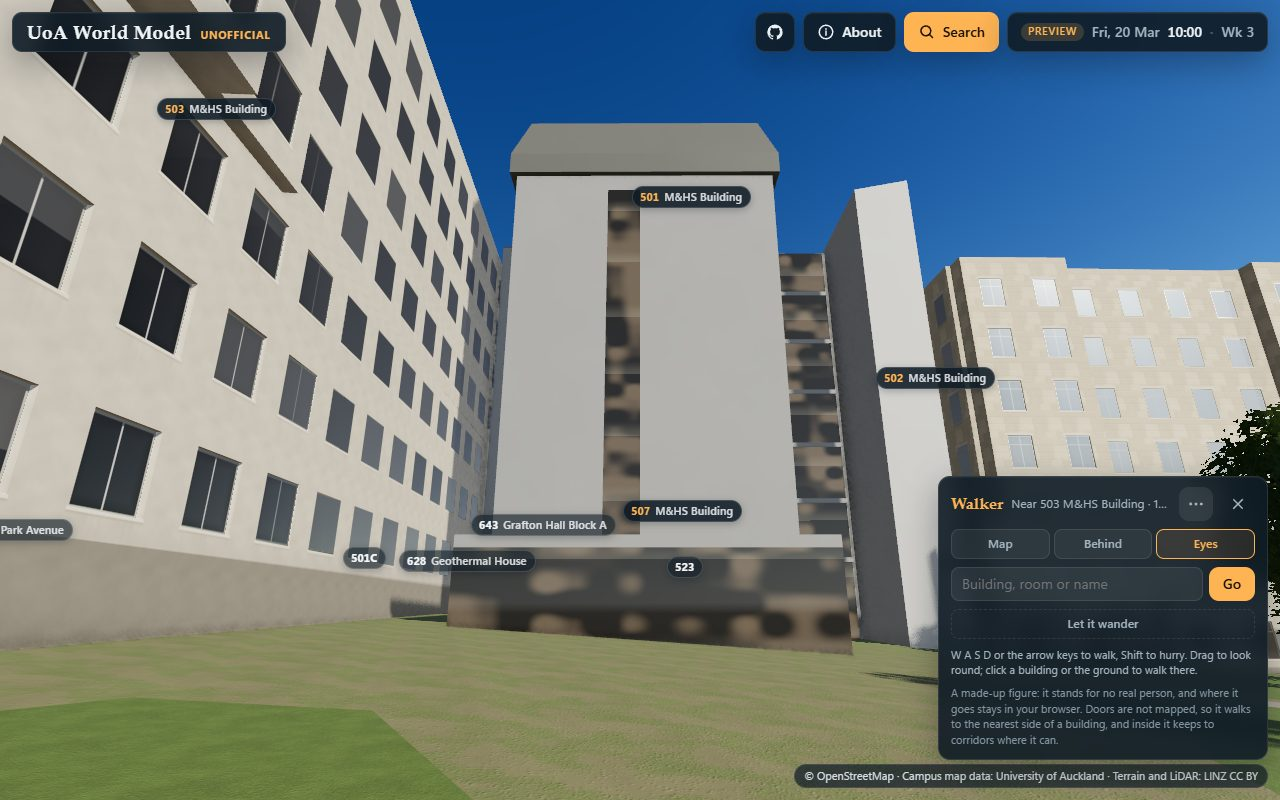
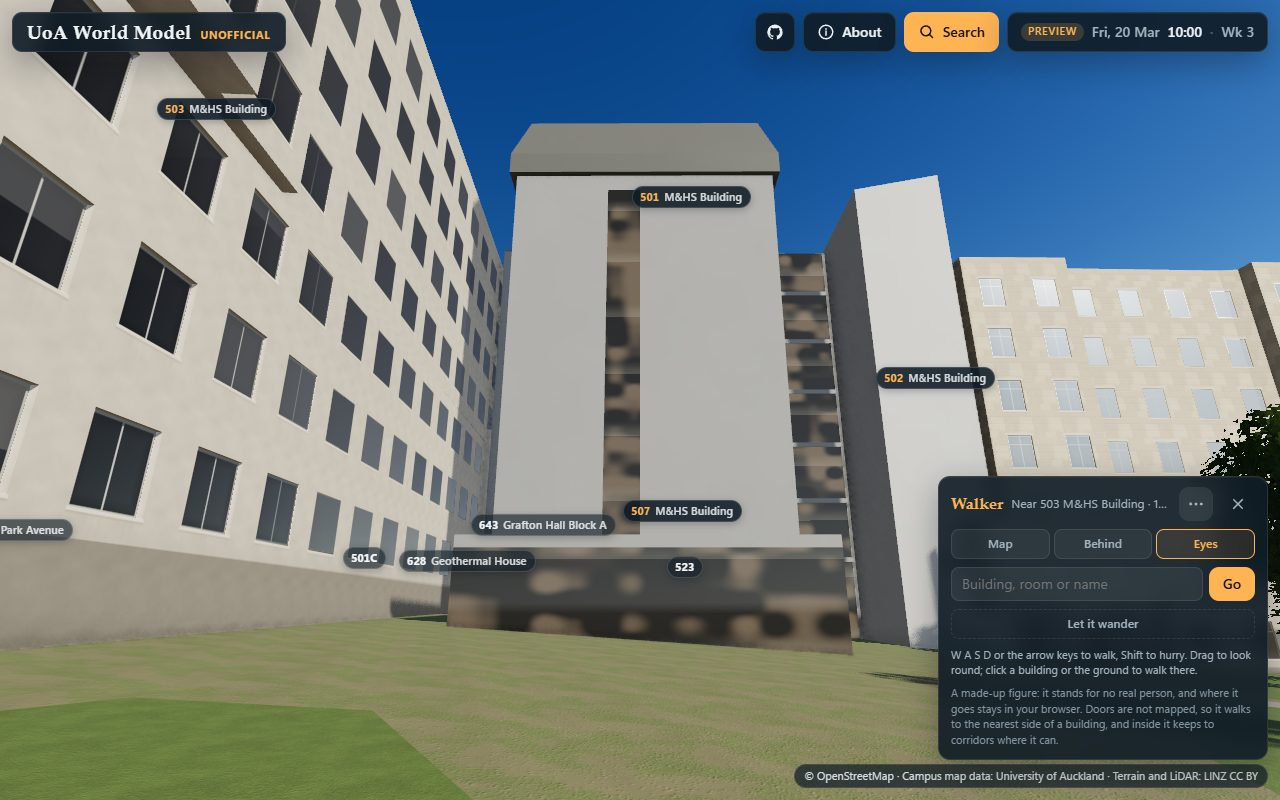
M&HS Building (501): the review's round 2, 502's edge to 501's ring and the block's lower east end
The second round found 502's edge stopping on a straight line from 502's ring's corner at u -23.2 to its east end,
short of 501's ring's north edge, which left a strip up to 1.9 m wide and about 28 m long undrawn where the LiDAR has
roof (29.0 to 29.4 m over the door): its north side now follows 502's ring's edge west of u -6.45 and 501's ring's
north edge east of it. And the long block's last 4 m to the tower, u -6 to -2, stand at 28.5 m (28.4 to 28.7, as
the concrete link and the part south of it), not 29.8: a part of its own, and the light well runs on to it (u -6).
The plant room ends at u -4.5 and the second part south of the block at -1.5, as the LiDAR's cells do. The words say
that the strip between 501's ring and 503's storeys is drawn by neither (as on main), that the glazed box's beam is
read from the photograph, and that 502's edge stands about 6 m over block 502 as the site draws it.

409 triangles, 5 draw calls. Silhouette IoU 0.909 in the model's screen box, luma 136 against 129; top view:
footprint IoU 0.830, 78% of 3,511 cells within 0.5 m; block 501 under the model 60.0%, the LiDAR's roof in its ring
96.8%; 502 0.1%, 503 0.3%, 501C 2.7%. Unit tests 445 passed; the four pictures taken again.

Claude-Session: https://claude.ai/code/session_01WyPcwFTXkmVC7XB6LWPSiH

Changed region(s): [[0.6875, 0.2188, 0.7812, 0.5938]]

diff --git a/landmarks/mhs-building-501/parts/common.js b/landmarks/mhs-building-501/parts/common.js
@@ -50,19 +50,22 @@ export const TOWER = {
 // lie in the shaft's face. The beam along its top is 0.5 m deep (estimated).
 export const BOX = { u: [8.1, 16.8], w: [-6.0, 9.5], top: H(4.5), beam: 0.5 };
 
-// The long block west of the tower: 29.8 m (29.5 to 29.8), its west end at u -26 (beyond it a part of 22 m, outside
-// the ring, and the ground), its sides at w -6 and 10.
-export const BLOCK = { u: [-26.0, -2.0], w: [-6.0, 10.0], top: H(29.8) };
-// A light well in its roof, u -21 to -7, w 4 to 8, its floor at 25.8 m (25.6 to 26.5).
-export const WELL = { u: [-21, -7], w: [4.0, 8.0], floor: H(25.8) };
-// The plant room on its south side, u -13 to -4, w -7 to -3, 34.6 m (34.3 to 34.9); its ends 0.1 m inside the part
-// south of the block, so that its walls do not lie in that part's ends.
-export const PLANT = { u: [-12.9, -4.1], w: [-7, -3], top: H(34.6) };
-// The part south of the block, to the ring's south edge at w -9.3 (the LiDAR has it on to w -11, inside block 503's
-// ring, which draws it): 30.5 m from u -13 to -4.5 (30.3 to 30.7), 28.6 m from -4.5 to -1 (28.5 to 28.6).
+// The long block west of the tower: 29.8 m (29.5 to 29.8) from its west end at u -26 (beyond it a part of 22 m,
+// outside the ring, and the ground) to u -6, its sides at w -6 and 10; its last 4 m to the tower, u -6 to -2, at
+// 28.5 m (28.4 to 28.7), the height of the concrete link and of the part south of it.
+export const BLOCK = { u: [-26.0, -6.0], w: [-6.0, 10.0], top: H(29.8) };
+export const BLOCK_EAST = { u: [-6.0, -2.0], w: [-6.0, 10.0], top: H(28.5) };
+// A light well in its roof, u -21 to -6 (to the lower east part), w 4 to 8, its floor at 25.8 m (25.6 to 26.5).
+export const WELL = { u: [-21, -6], w: [4.0, 8.0], floor: H(25.8) };
+// The plant room on its south side, u -13 to -4.5, w -7 to -3, 34.6 m (34.1 to 34.9); its ends 0.1 m inside the
+// part south of the block, so that its walls do not lie in that part's ends.
+export const PLANT = { u: [-12.9, -4.6], w: [-7, -3], top: H(34.6) };
+// The part south of the block, to the ring's south edge at w -9.3: 30.5 m from u -13 to -4.5 (30.3 to 30.7), 28.6 m
+// from -4.5 to -1.5 (28.5 to 28.6). The LiDAR has it on to w -11, inside block 503's ring; the site draws 503 from its
+// storeys' outlines, which start at about w -10.2, so a strip of about 1 m between is drawn by neither, as on main.
 export const SOUTH = [
   { u: [-13, -4.5], w: [-9.3, -6.0], top: H(30.5) },
-  { u: [-4.5, -1.0], w: [-9.3, -6.0], top: H(28.6) },
+  { u: [-4.5, -1.5], w: [-9.3, -6.0], top: H(28.6) },
 ];
 // The concrete link on its north side, u -5.5 to -2, from the block to 502 (w 10 to 16.5, 0.5 m into 502), 28.5 m.
 export const LINK = { u: [-5.5, -2.0], w: [10.0, 16.5], top: H(28.5) };
@@ -76,10 +79,12 @@ export const GLAZED = { u: [-2.5, 0.5], w: [9.3, 15.0], top: H(27.0) };
 export const GLAZED_FLOORS = [4.8, 8.6, 12.4, 16.2, 20.0, 23.8].map(H);
 
 // The building to the north (502), its south edge inside 501's ring: its south wall at w 16 (its first roof returns),
-// its east end at u 5.75, from the ring's west edge at u -30; drawn to 502's ring, whose south edge runs from w 20.3
-// at u -23.2 to 19.65 at u 5.75 (its block draws on from there). Its roof rises 0.2 m a metre to the north from 28.8 m
-// at that wall (29.2, 29.5, 29.9 and 30.2 m at w 17 to 23; the outermost cells, 27.0 to 27.3, are its edge's).
+// its east end at u 5.75, from the ring's west edge at u -30; drawn to the edge of 502's ring west of u -6.45 (w 20.3
+// to 21.4; its block draws on from there) and to 501's ring's north edge east of it (w 21.5 to 21.8, which 502's ring
+// meets or overlaps by up to 0.2 m), so that no part of 501's ring with the LiDAR's roof is left undrawn. Its roof
+// rises 0.2 m a metre to the north from 28.8 m at that wall (29.2, 29.5, 29.9 and 30.2 m at w 17 to 23; the outermost
+// cells, 27.0 to 27.3, are its edge's).
 export const NORTH = {
-  plan: [[-30, 16.0], [5.75, 16.0], [5.75, 19.65], [-23.17, 20.32], [-30, 20.29]],
+  plan: [[-30, 16.0], [5.75, 16.0], [5.75, 21.78], [-3.54, 21.49], [-6.45, 21.42], [-23.17, 20.32], [-30, 20.29]],
   eave: H(28.8), rise: 0.2, w0: 16.0,
 };

diff --git a/landmarks/mhs-building-501/parts/block.js b/landmarks/mhs-building-501/parts/block.js
@@ -1,19 +1,22 @@
 // The M&HS Building's long block west of the tower, with the plant room on it, the part south of it, the concrete
 // link north of it to 502 and the glazed link beside the tower; and the south edge of the building to its north
 // (502's), inside the campus map's ring of 501. Sizes from common.js.
-import { BLOCK, FOOT, GLAZED, GLAZED_FLOORS, LINK, NORTH, PLANT, SOUTH, WELL, at, plan, rect } from "./common.js";
+import {
+  BLOCK, BLOCK_EAST, FOOT, GLAZED, GLAZED_FLOORS, LINK, NORTH, PLANT, SOUTH, WELL, at, plan, rect,
+} from "./common.js";
 import { block, prism, tris } from "./shapes.js";
 
 const WALL = "renderGrey", ROOF = "roofGrey", GLASS = "glass", PALE = "claddingPale";
 
-/** The long block round its light well (the well's floor a block of its own), the plant room on its south side, the
- * part south of it, the concrete link north of it, and the glazed link: glass from just over FOOT to its roof, each
- * floor's slab standing out of the glass. */
+/** The long block round its light well (the well's floor a block of its own) and its lower east end, the plant room
+ * on its south side, the part south of it, the concrete link north of it, and the glazed link: glass from just over
+ * FOOT to its roof, each floor's slab standing out of the glass. */
 export function body(b) {
   const [u0, u1] = BLOCK.u, [w0, w1] = BLOCK.w, [a0, a1] = WELL.u, [c0, c1] = WELL.w;
   for (const [u, w] of [[[u0, u1], [w0, c0]], [[u0, u1], [c1, w1]], [[u0, a0], [c0, c1]], [[a1, u1], [c0, c1]]])
-    block(b, rect(u, w), FOOT, BLOCK.top, WALL, ROOF);
+    if (u[1] > u[0] && w[1] > w[0]) block(b, rect(u, w), FOOT, BLOCK.top, WALL, ROOF);
   block(b, rect(WELL.u, WELL.w), FOOT, WELL.floor, WALL, ROOF);
+  block(b, rect(BLOCK_EAST.u, BLOCK_EAST.w), FOOT, BLOCK_EAST.top, WALL, ROOF);
   block(b, rect(PLANT.u, PLANT.w), BLOCK.top - 2, PLANT.top, WALL, ROOF);
   for (const s of SOUTH) block(b, rect(s.u, s.w), FOOT, s.top, WALL, ROOF);
   block(b, rect(LINK.u, LINK.w), FOOT, LINK.top, WALL, ROOF);

diff --git a/landmarks/mhs-building-501/README.md b/landmarks/mhs-building-501/README.md
@@ -38,12 +38,14 @@ as it does for every landmark.
 - No other landmark's outline comes within 2 m of its (502 and 503 are blocks), so it stands alone on the map's ground
   at its door (`../README.md`, "Placement").
 - The model draws what the LiDAR has inside block 501's ring, so that it stands over no part of the blocks of 502 and
-  503 beside it (0.0% and 0.4% of them under it). The ring takes in, besides the building, the plaza east of the tower,
-  over the floors the campus map has below its ground, and the south edge of building 502's roof: the model draws that
-  edge (plainly, in pale cladding, its roof rising as the LiDAR has it) up to 502's own ring, so that the map keeps the
-  roof the block drew there. The long block's south-west corner stands over the ring of 501C, which the campus map has
-  as a basement (2.7% of that block under the model); the LiDAR has the block there.
-- 57.8% of block 501 is under the model above 2.5 m; of the LiDAR's roof inside its ring (899 m²), 92.9%. No other
+  503 beside it (0.1% and 0.3% of them under it). The ring takes in, besides the building, the plaza east of the
+  tower, over the floors the campus map has below its ground, and the south edge of building 502's roof: the model
+  draws that edge (plainly, in pale cladding, its roof rising as the LiDAR has it) to the edge of 502's ring and, east
+  of it, of 501's, so that the map keeps the roof the block drew there. Block 502, as the site draws it, stands about
+  6 m lower than the LiDAR has its roof, so the edge shows as a step over it, as block 501 did. The long block's
+  south-west corner stands over the ring of 501C, which the campus map has as a basement (2.7% of that block under the
+  model); the LiDAR has the block there.
+- 60.0% of block 501 is under the model above 2.5 m; of the LiDAR's roof inside its ring (899 m²), 96.8%. No other
   block is under it by half, so `building.also` is empty.
 
 ## The reference
@@ -63,7 +65,8 @@ camera held 1.6 m over the LiDAR's ground. It stands about 67 m before the face,
 degrees across: an rms of 2.78 px. The crown's eave is at 27.8 m: the LiDAR's edge cells there mix the crown and the
 wall (28 to 30 m), and the fit's residual on the eave was 22 px at the outermost cell's 29.2 m and 1 px at 27.8. No
 size is measured from the photograph but that eave, the crown's band, the shaft's set-back under the crown, the glazed
-link's top and floors and the strip of windows (below); it is a reference for the look and the comparison.
+link's top and floors, the strip of windows and the glazed box's beam (below); it is a reference for the look and the
+comparison.
 
 ## The model (`parts/common.js`)
 
@@ -75,23 +78,25 @@ link's top and floors and the strip of windows (below); it is a reference for th
   estimated).
 - **The glazed box** before the east face, its roof at 4.5 m (its beams 5.4 to 7.0 above it), its face at u 16.8, a
   beam 0.5 m deep along its top (estimated).
-- **The long block** west of it, 29.8 m (29.5 to 29.8), u -26 to -2 and w -6 to 10, a light well in its roof (u -21 to
-  -7, w 4 to 8, its floor at 25.8 m); **the plant room** on its south side, u -13 to -4 and w -7 to -3, 34.6 m;
-  **the part south of it**, 30.5 and 28.6 m, to the ring's edge at w -9.3 (the LiDAR has it on to w -11, inside block
-  503's ring, which draws it); **the concrete link** on its north side, u -5.5 to -2, from the block to 502, 28.5 m.
+- **The long block** west of it, 29.8 m (29.5 to 29.8), u -26 to -6 and w -6 to 10, a light well in its roof (u -21 to
+  -6, w 4 to 8, its floor at 25.8 m), and its last 4 m to the tower at 28.5 m; **the plant room** on its south side,
+  u -13 to -4.5 and w -7 to -3, 34.6 m; **the part south of it**, 30.5 and 28.6 m, to the ring's edge at w -9.3 (the
+  LiDAR has it on to w -11, inside block 503's ring; the site draws 503 from its storeys' outlines, which start at about
+  w -10.2, so a strip of about 1 m between is drawn by neither, as on main); **the concrete link** on its north side,
+  u -5.5 to -2, from the block to 502, 28.5 m.
 - **The glazed link** beside the tower's north side, u -2 to 0.5 and w 10 to 15, where the LiDAR returns nothing (a
   glass roof; the ground beyond it): glass to 27 m, each floor's slab every 3.8 m from 4.8 m standing 0.05 m out of
   it (the photograph's glazed link right of the tower, through its fitted camera: estimated). The link the photograph
   shows left of the tower stands south of 501's ring, in 503's, and is left to that block.
 - **502's south edge** inside the ring: its south wall at w 16 (its first roof returns), its east end at u 5.75, its
-  roof rising 0.2 m a metre from 28.8 m, to 502's ring.
+  roof rising 0.2 m a metre from 28.8 m, to the edge of 502's ring (and of 501's, east of u -6.45).
 - The light: the photograph has no date, and its east face stands in sun. The viewer's sun at 70 degrees round and 45
-  up lights that face; the building's luma median is 136 at an exposure of 0.4 against the photograph's 126 (counted
+  up lights that face; the building's luma median is 136 at an exposure of 0.4 against the photograph's 129 (counted
   in the model's screen box).
 
-Silhouette IoU 0.914 in the model's screen box. The top view: footprint IoU 0.797 (the LiDAR's 1,006 m² against the
-model's 916, both 852), 72% of the 3,374 cells both cover within 0.5 m (p10/p50/p90 -0.13/0.12/1.49), the highest
-point 34.3 m against the LiDAR's 34.4 (p99.9). 395 triangles, 5 draw calls.
+Silhouette IoU 0.909 in the model's screen box. The top view: footprint IoU 0.830 (the LiDAR's 1,006 m² against the
+model's 950, both 887), 78% of the 3,511 cells both cover within 0.5 m (p10/p50/p90 -0.13/0.10/1.27), the highest
+point 34.3 m against the LiDAR's 34.4 (p99.9). 409 triangles, 5 draw calls.
 
 ## On the map (step 7)
 
@@ -136,7 +141,10 @@ not 13.8 (the strip between is open ground); the long block's west end at u -26,
 atria drawn on the block's whole length where the LiDAR has, on the south-west, a planted surface at the plaza's level,
 and on the north-west nothing over a strip 6 m wide. The model now draws only what the LiDAR has inside 501's ring
 (and the block's corner over 501C's), at the cells' sizes; the glazed link only where the photograph shows it, beside
-the tower; and its card names every size estimated in the photograph. 640 triangles became 395.
+the tower; and its card names every size estimated in the photograph. 640 triangles became 395. The second round
+found 502's edge stopping on a straight line short of 501's ring (a strip up to 1.9 m wide left undrawn) and the
+block's last 4 m to the tower 1.2 m too high (it stands at 28.5 m, as the concrete link does): both fixed, and the
+light well runs on to that lower part; 409 triangles.
 
 ## Not drawn yet
 

diff --git a/landmarks/mhs-building-501/docs/CONTRACT.md b/landmarks/mhs-building-501/docs/CONTRACT.md
@@ -14,10 +14,11 @@ The rules every part of this landmark keeps. The kit, the pipeline and the viewe
 - The building's own frame: **u** east-south-east (`-x`), toward the plaza, and **w** toward 502 (`z`).
   `parts/common.js` gives `at(u, w)`, `plan(corners)` and `rect(u, w)`.
 - What the LiDAR shows (`parts/common.js` holds the numbers; measured cell by cell after the review's round 1):
-  - **the long block**, about 29.8 m, u -26 to -2 and w -6 to 10, a light well in its roof (25.8 m);
+  - **the long block**, about 29.8 m, u -26 to -6 and w -6 to 10, a light well in its roof (25.8 m), its last 4 m to
+    the tower at 28.5 m;
   - **the tower** at its east end, toward the plaza, u -2 to 9 and w -7 to 10: its **crown**'s flat top at 32.4 m,
     its edges falling to about 28 to 30 m;
-  - **a plant room** of 34.6 m on the block's south side (u -13 to -4, w -7 to -3), **a lower part** south of it
+  - **a plant room** of 34.6 m on the block's south side (u -13 to -4.5, w -7 to -3), **a lower part** south of it
     (30.5 and 28.6 m) on to w -11, past 501's ring at w -9.3 into 503's; **a concrete link** of 28.5 m on its north side
     (u -5.5 to -2) to 502;
   - **a glazed link** beside the tower's north side (u -2 to 0.5, w 10 to 15), which returns nothing (a glass roof),
@@ -37,7 +38,7 @@ The rules every part of this landmark keeps. The kit, the pipeline and the viewe
 
 ## Budget
 - Whole building ≤ 100k triangles and ≤ 10 draw calls (tier 2, a large teaching building), merged by material. Round
-  0: 244 triangles, 4 draw calls; round 1: 640, 5; after the review's round 1: 395, 5.
+  0: 244 triangles, 4 draw calls; round 1: 640, 5; after the review's rounds 1 and 2: 395 and 409, 5.
 
 ## Rounds
 - Round 0 (2026-11-09): the tower's shaft (`renderGrey`), its crown (`roofGrey`) and the glazed box before it
@@ -82,13 +83,19 @@ The rules every part of this landmark keeps. The kit, the pipeline and the viewe
   Silhouette IoU 0.914 in the model's screen box, luma 136 against 126; the top view: footprint IoU 0.797, 72% of
   the 3,374 cells within 0.5 m (p10/p50/p90 -0.13/0.12/1.49); block 501 under the model 57.8%, the LiDAR's roof in
   its ring 92.9%; 502 0.0%, 503 0.4%, 501C 2.7%.
+- The review's round 2 (2026-11-09): 502's edge drawn to 501's ring's north edge east of u -6.45, where the straight
+  line to 502's ring had left a strip up to 1.9 m wide undrawn; the block's last 4 m to the tower at 28.5 m and the
+  light well on to it (u -6); the plant room's east end at u -4.5 and the second part south of the block's at -1.5.
+  409 triangles, 5 draw calls. Silhouette IoU 0.909 in the model's screen box, luma 136 against 129; the top view:
+  footprint IoU 0.830, 78% of the 3,511 cells within 0.5 m (p10/p50/p90 -0.13/0.10/1.27); block 501 under the model
+  60.0%, the LiDAR's roof in its ring 96.8%; 502 0.1%, 503 0.3%, 501C 2.7%.
 
 ## Rules
 - Measure, don't guess: a size the LiDAR gives is taken from it; one it does not is estimated and said to be.
 - The photograph (one, from the plaza about 67 m before the tower's east face; `refs/photos/`, gitignored) is a
   reference for the look: nothing is traced or sampled from it, and no size is measured from it but the crown's eave
   and band over the east face, the shaft's set-back under the crown, the glazed link's top and floors and the tower's
-  strip of windows, which are estimated through its fitted camera.
+  strip of windows and the glazed box's beam, which are estimated through its fitted camera.
 - Walls go down to `FOOT`. Where two parts meet, one's plan runs into the other's: no two faces of different
   materials in one plane.
 

diff --git a/README.md b/README.md
@@ -614,8 +614,8 @@ and its corners hipped up to a flat top; a strip of windows up the middle of the
 and a glazed link beside it to the north. Its heights and plans come from the LiDAR; the crown's eave and band, the
 glazed link's top and floors and the strip of windows are estimated with the photograph as a reference. One
 photograph from the plaza, about 67 m from the tower; counted inside the rectangle the model fills on the screen, its
-silhouette has an IoU of 0.91 in it, and the brightness of the building is within 10 of the photograph's. From above
-its outline covers the LiDAR's with an IoU of 0.80, and on 72% of the cells both cover it is within 0.5 m of the
+silhouette has an IoU of 0.91 in it, and the brightness of the building is within 7 of the photograph's. From above
+its outline covers the LiDAR's with an IoU of 0.83, and on 78% of the cells both cover it is within 0.5 m of the
 LiDAR's height. What the photograph does not show is drawn plainly.
 
 | | |
@@ -1145,10 +1145,10 @@ If you represent the University and would like something changed or removed, ple
   court), which is not drawn. The concrete's boards and bands, the glazing's frames, the balcony rails, the box's
   doors and the things on the roofs are not drawn. Its entrance is not known from a record: its door is set before
   the glass doors the photograph shows in the glazed box, where the map's ground lies 1.3 m under the LiDAR's.
-  Block 501 is 57.8% under the model: its ring takes in the plaza east of the tower, over the floors the campus map
+  Block 501 is 60.0% under the model: its ring takes in the plaza east of the tower, over the floors the campus map
   has below its ground, and that strip. Inside the ring the model also draws the south edge of building 502's roof,
-  up to 502's own ring; the long block's south-west corner stands over the ring of 501C, a basement in the campus
-  map.
+  to the edge of 502's ring; the long block's south-west corner stands over the ring of 501C, a basement in the
+  campus map.
   While a building beside it is open, it gives way to block 501, which sinks to a footprint on its footing, at most
   4 m above the lowest ground under it: that footprint stands above the drawn ground on 79% of its cells, by up to
   1.7 m.
